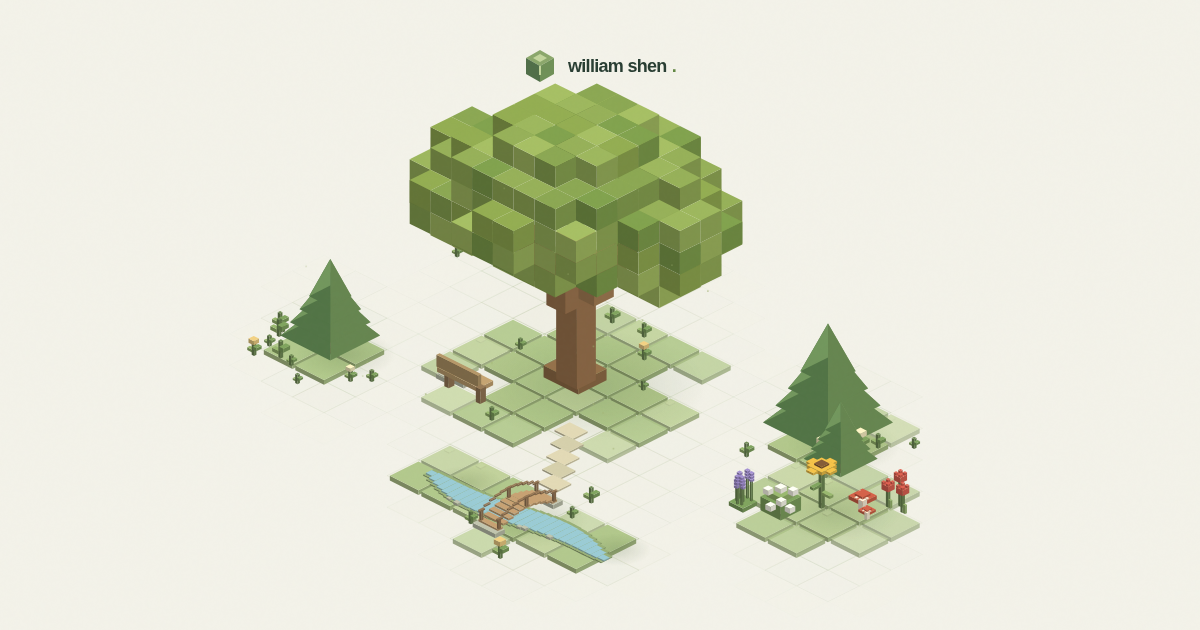
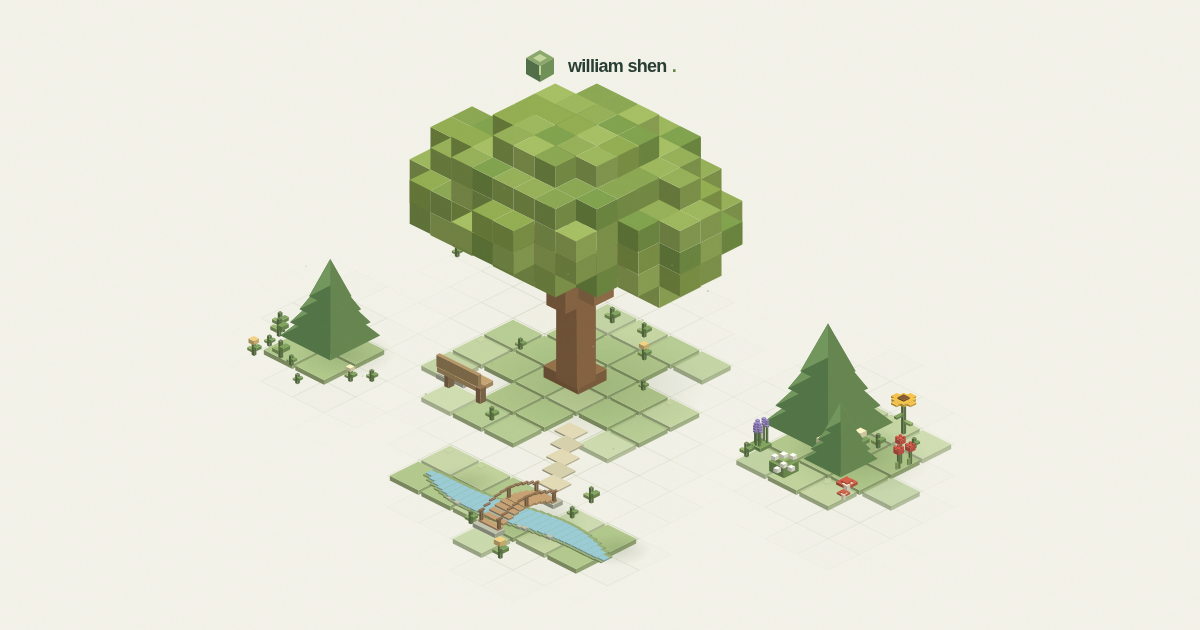
spread the project plants around the pines, a little smaller and varied
AI-Model: geotab-anthropic/claude-opus-5.5

Changed region(s): [[0.5858, 0.6032, 0.8017, 0.9048]]

diff --git a/src/data/garden.ts b/src/data/garden.ts
@@ -3,7 +3,7 @@ import type { BedPlant, GardenConfig, Palette } from '../garden/types.ts'
 import { projectEntries } from './projectEntries.ts'
 
 /**
- * One plant per project (its `plant` in projectEntries.ts) for the bed by the pines. Hovering names
+ * One plant per project (its `plant` in projectEntries.ts) for the bed around the pines. Hovering names
  * the project and clicking opens it in the projects section. Ids come from the project, so adding
  * one grows one new plant and leaves the others as they were.
  */
@@ -25,10 +25,10 @@ export const garden: GardenConfig = {
     projects: { label: 'projects', href: '#work' },
     hobbies: { label: 'hobbies', href: '#hobbies' },
   },
-  // The project bed in front of the pines, in a staggered row; projects fill the spots left to right.
+  // Project plants growing around the pines, clear of their lowest branches; projects fill the spots in order.
   bed: {
-    island: 'bed', section: 'projects', scale: 1.4, plants: projectPlants,
-    spots: [{ x: -1.3, y: 1.2 }, { x: -0.55, y: 0.75 }, { x: 0, y: 0 }, { x: 0.75, y: -0.55 }, { x: 1.2, y: -1.3 }],
+    island: 'right', section: 'projects', scale: 1.1, plants: projectPlants,
+    spots: [{ x: -0.9, y: 1.25 }, { x: 0.25, y: 1.65 }, { x: 0.95, y: -1.45 }, { x: 1.95, y: 1.35 }, { x: 1.85, y: -0.45 }],
   },
   ground: { extent: 45, seed: 51 },
   islands: [
@@ -39,8 +39,8 @@ export const garden: GardenConfig = {
     // Grass under the creek's ends, so the water doesn't run out over bare grid.
     { id: 'creek-left', x: 1.1, y: 5.1, radius: 1.6, plants: false },
     { id: 'creek-right', x: 5.6, y: 4.8, radius: 1.5, plants: false },
-    // Grass for the project bed, just in front of the right island.
-    { id: 'bed', x: 7.9, y: 0.1, radius: 2.8, plants: false },
+    // Grass for the project plants around the pines.
+    { id: 'bed', x: 6.6, y: -1.9, radius: 3.2, plants: false },
     { id: 'back', x: -5.2, y: -3.5, radius: 1.6 },
   ],
   objects: [

diff --git a/src/garden/objects.test.ts b/src/garden/objects.test.ts
@@ -2,7 +2,7 @@ import assert from 'node:assert/strict'
 import { test } from 'node:test'
 import { garden } from '../data/garden.ts'
 import { projectEntries } from '../data/projectEntries.ts'
-import { buildWorld, objectTypes } from './objects.ts'
+import { buildWorld, expandBed, objectTypes } from './objects.ts'
 import { species, type GardenConfig, type GardenObject, type Geometry, type Island } from './types.ts'
 
 const minimal = (objects: GardenObject[], islands = [{ id: 'a', x: 0, y: 0, radius: 2 }]): GardenConfig => ({
@@ -213,6 +213,13 @@ test('a bed plants one linked specimen per plant, its links right after the sect
   assert.deepEqual(shapes(grown.geometry, 'one'), shapes(world.geometry, 'one'))
   assert.deepEqual(shapes(grown.geometry, 'two'), shapes(world.geometry, 'two'))
   assert.throws(() => buildWorld(config(['a', 'b', 'c', 'd'].map(plant))), /4 plants but only 3 spots/)
+  // Each plant's size varies a little around the bed's scale, the same on every build.
+  const scaled = { ...config([plant('one'), plant('two')]), bed: { ...config([]).bed!, scale: 2, plants: [plant('one'), plant('two')] } }
+  for (const object of expandBed(scaled).objects.filter((item) => item.type === 'specimen')) {
+    const { scale } = object as { scale: number }
+    assert.ok(scale >= 1.84 && scale <= 2.08, `${object.id} ${scale}`)
+  }
+  assert.deepEqual(expandBed(scaled), expandBed(scaled))
 })
 
 test('every project grows in the site garden and links to its card', () => {

diff --git a/src/garden/objects.ts b/src/garden/objects.ts
@@ -309,9 +309,15 @@ export function expandBed(config: GardenConfig): { objects: GardenObject[]; link
   if (bed.plants.length > bed.spots.length) {
     throw new Error(`The garden bed has ${bed.plants.length} plants but only ${bed.spots.length} spots; add spots to it`)
   }
-  const plants: GardenObject[] = bed.plants.map((plant, index) => ({
-    id: plant.id, type: 'specimen', island: bed.island, ...bed.spots[index], species: plant.species, scale: bed.scale, link: plant.id,
-  }))
+  const plants: GardenObject[] = bed.plants.map((plant, index) => {
+    // A little variety, fixed by the id: up to 8% smaller or 4% bigger, and maybe mirrored.
+    const variety = seedFromId(`${plant.id}:look`)
+    const scale = Math.round((bed.scale ?? 1) * (0.92 + (variety % 1000) / 1000 * 0.12) * 100) / 100
+    return {
+      id: plant.id, type: 'specimen', island: bed.island, ...bed.spots[index], species: plant.species, scale,
+      ...(variety & 0x10000 ? { mirror: true } : {}), link: plant.id,
+    }
+  })
   const own = Object.fromEntries(bed.plants.map(({ id, label, href }) => [id, { label, href }]))
   const entries = Object.entries(links), after = bed.section === undefined ? -1 : entries.findIndex(([id]) => id === bed.section)
   const at = after < 0 ? entries.length : after + 1

diff --git a/README.md b/README.md
@@ -19,7 +19,7 @@ Open the localhost URL printed by Vite. No sharing service or deployment is need
 - Scrolling shrinks the garden into a leaf-green navigation bar. The centered wordmark moves left, the menu appears on the right, and the daylight/evening toggle moves from beside the name to the far right.
 - Portrait and introduction follow the garden, then work experience, selected projects, and hobbies. Card sections show three items and expand to show the rest.
 - Hobby cards expand into a side panel. Speedcubing has Official/Unofficial results, an event selector, and practice averages; a weekly workflow refreshes its bundled snapshot, and the same workflow refreshes the live TETR.IO and MCSR Ranked stats. Other hobbies use the old site's sample stats.
-- The garden doubles as navigation: the oak goes to the introduction, the left pine to work experience, the right pines to projects, and the creek and footbridge to hobbies. In front of the pines, a bed grows one plant per project (lavender, a snowball bush, a sunflower, mushrooms, tulips); each opens its project's side panel through a `#work/<id>` link. Hovering an object brightens it and names its destination; clicking follows it. On touch screens the first tap highlights and the second follows. Keyboard and screen-reader users reach each destination as a link (Tab, then Enter), with a focus ring drawn around its objects. The links switch off once the garden has collapsed into the header.
+- The garden doubles as navigation: the oak goes to the introduction, the left pine to work experience, the right pines to projects, and the creek and footbridge to hobbies. Around the pines grows one plant per project (lavender, a snowball bush, a sunflower, mushrooms, tulips); each opens its project's side panel through a `#work/<id>` link. Hovering an object brightens it and names its destination; clicking follows it. On touch screens the first tap highlights and the second follows. Keyboard and screen-reader users reach each destination as a link (Tab, then Enter), with a focus ring drawn around its objects. The links switch off once the garden has collapsed into the header.
 - Daylight/evening palettes, pollen/fireflies, native project/info dialogs, and responsive mobile layouts.
 - Reduced-motion support, keyboard navigation, and a skip-to-introduction link. Hidden navigation is inert until revealed.
 - The garden is drawn once into two cached layers (ground, and the objects on it) that are copied each frame, so animation frames only draw the fireflies; while the cursor lights the grid, just the ground around it is redrawn. Layers rebuild after a resize or theme change.
@@ -127,7 +127,7 @@ vite.config.ts                     Vite + React, 404 build entry, local 404 hand
 - **Colors and dimensions:** edit the CSS custom properties in `src/index.css`; component-specific layout lives alongside each component.
 - **Garden layout:** edit `garden` in `src/data/garden.ts`. It lists the islands (grass patches that shape the ground and cast shadows; grass covers about the inner 60% of an island's radius, and `plants: false` keeps scatters off an island that only widens the grass, like the two under the creek's ends), the objects, the ground size, and the fireflies. Object types: `oak`, `pine`, `plant`, `rock`, `path` (stepping stones), `bench`, `creek` (a tapering stream along local x with pebbles on its banks), `bridge` (an arched footbridge along local x, on stone footings), and `scatter`, which sprinkles plants around every island. Scatters are built after everything else and skip plants that would land within `keepOut` of another object's footprint (water, rocks, footings), without moving the plants that remain. Units are ground tiles; +x runs toward the lower right of the screen and +y toward the lower left. An object with `island` is positioned relative to that island's center, so moving an island moves everything on it. Any object can be turned with `rotate: 90 | 180 | 270` (quarter turns clockwise on screen, so boxes stay axis-aligned) and flipped left↔right with `mirror: true`; mirroring applies before rotating. Each object has its own seeded random generator: change its `seed` to reroll just that object, or leave `seed` out to derive one from its `id`. The current seeds reproduce the original garden. To make objects clickable, add a destination to `links` (`{ label, href }`; its position in `links` is its tab order) and give the objects `link: '<id>'`; several objects can share one, and they highlight together. An unknown link id fails the build.
 - **Garden colors and seasons:** edit `gardenPalettes` in `src/data/garden.ts`. Objects refer to named colors (`trunk`, `benchSeat`…) and swatches (`leaves`, `flowers`, `pine`, `path`), resolved against the active palette when drawing; `light` scales the brightness of everything, and `snow` frosts top faces (and pines) toward a color. The garden follows the season: spring (March–May), summer (June–August, the original palettes `daylight`/`evening`), autumn (September–November), and winter (December–February), each with a daylight and an evening palette chosen in `gardenSeasons`. Evening palettes are made from the daylight ones by `atEvening`, which dims the light and lights the fireflies. Each palette's `live` picks what moves over the garden: summer's fireflies, autumn leaves tumbling down from every oak (`leaves` in the layout), winter snowfall (`snow`), or spring flowers that sprout, bloom, and fade on open grass (`blooms`; they only grow where nothing in front would hide them). These are drawn live each frame on top of the cached scene and freeze with reduced motion. Preview any season with `?season=spring|summer|autumn|winter` (this works on the live site too).
-- **Project bed:** `bed` in `src/data/garden.ts` plants `projectPlants`, which is generated from `src/data/projectEntries.ts`: each project's `plant` (a `specimen` species: `sunflower`, `tulips`, `lavender`, `snowball`, `mushrooms`) grows in the next free spot of `spots`, positioned relative to the bed's `island`, and links to `#work/<project id>`. Their links come right after the `section` link in tab order. Adding a project needs a `plant` and, past five, another spot (the build says so); the other plants don't change, since each one's id and seed come from its project. The editor doesn't edit bed plants; clicking one says where to change it, and **copy config** writes `plants: projectPlants` rather than a copy.
+- **Project bed:** `bed` in `src/data/garden.ts` plants `projectPlants`, which is generated from `src/data/projectEntries.ts`: each project's `plant` (a `specimen` species: `sunflower`, `tulips`, `lavender`, `snowball`, `mushrooms`) grows in the next free spot of `spots`, positioned relative to the bed's `island` (here the pines' island, so moving it moves them too), at the bed's `scale` give or take a few percent and sometimes mirrored (fixed by the plant's id, so it looks natural but never changes), and links to `#work/<project id>`. Their links come right after the `section` link in tab order. Adding a project needs a `plant` and, past five, another spot (the build says so); the other plants don't change, since each one's id and seed come from its project. The editor doesn't edit bed plants; clicking one says where to change it, and **copy config** writes `plants: projectPlants` rather than a copy.
 - **New object types:** add the parameters to `ObjectParams` in `src/garden/types.ts` and a builder to `objectTypes` in `src/garden/objects.ts`. Builders draw boxes and pine tiers in local coordinates with `b.box(...)` / `b.pineLayer(...)`, use `b.random()` for variation, and can place other types with `b.place(...)`, and can ask `b.occupied(x, y, margin)` whether another object already sits on the ground there. When hiding faces covered by a neighbor, look neighbors up through `b.facing.right` / `b.facing.left` (the local directions that face the camera) so culling stays correct after rotating or mirroring. `buildWorld` (pure, unit-tested in `src/garden/objects.test.ts`) turns the config into sorted geometry; `src/garden/scene.ts` only renders it, caching everything but the fireflies and pointer light.
 - **Scroll choreography:** edit `src/hooks/useGardenExperience.ts` and `GardenExperience.module.css`. Frame-by-frame updates go straight to CSS variables and canvas rather than triggering React renders.
 
